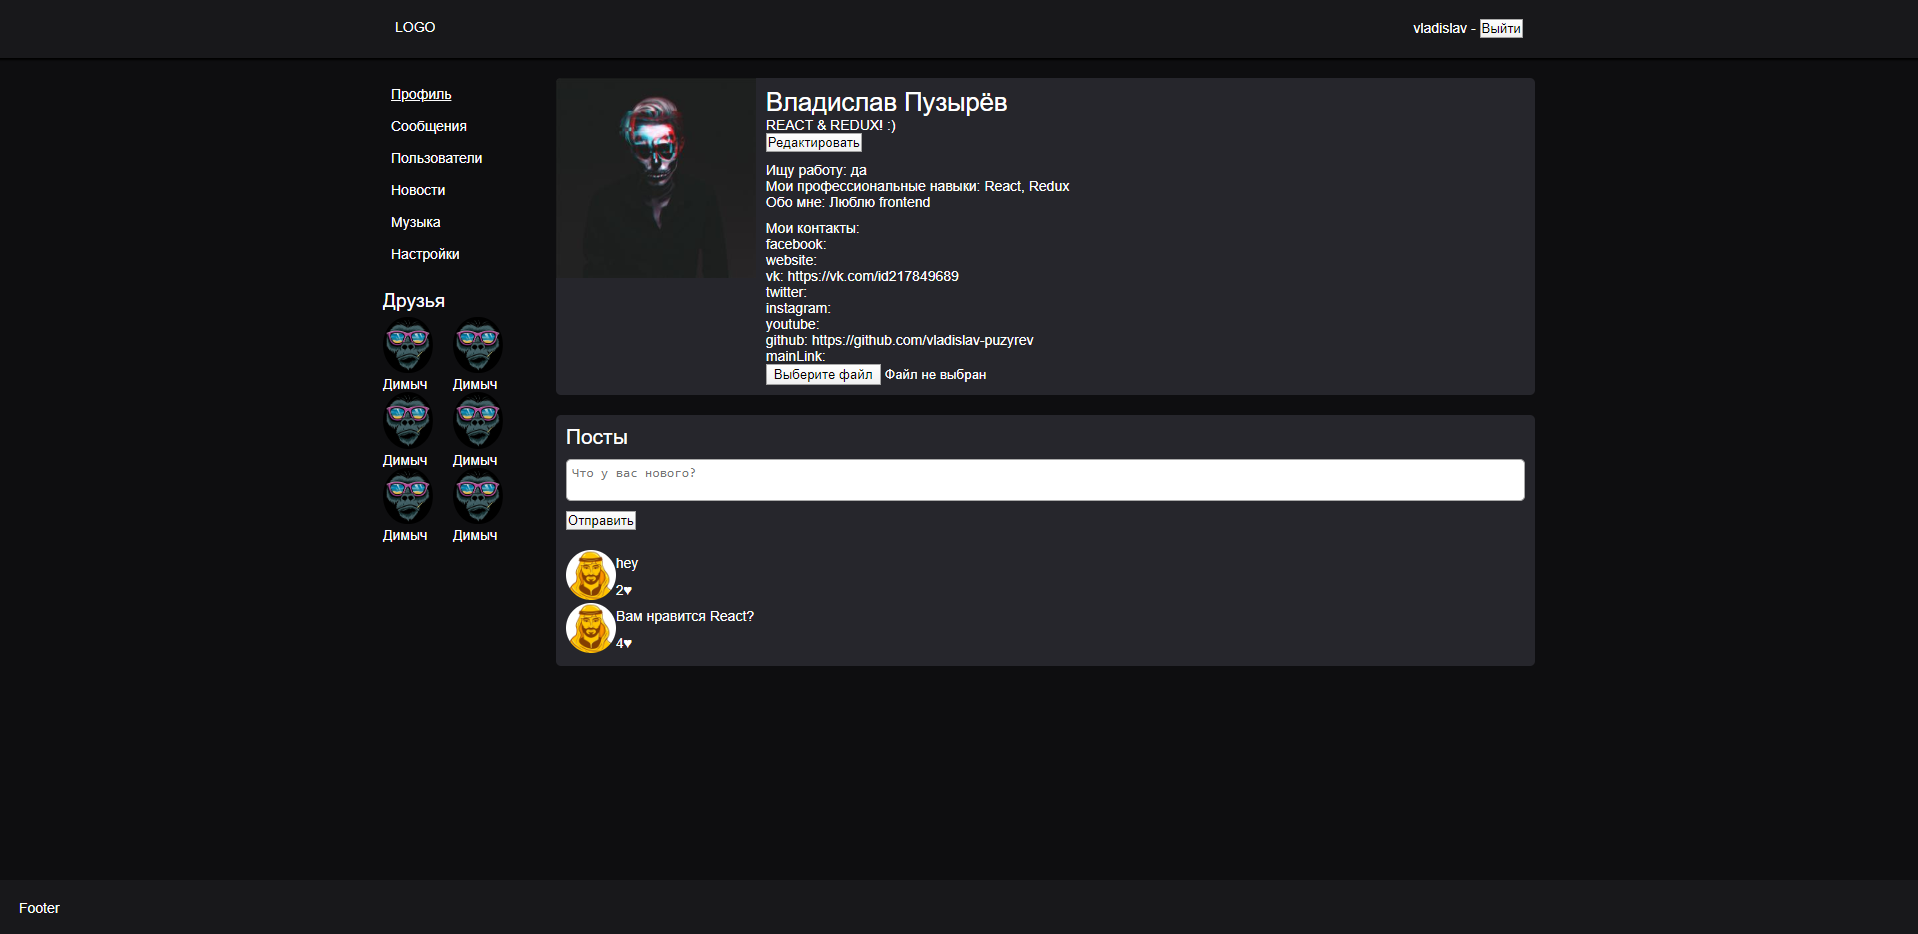
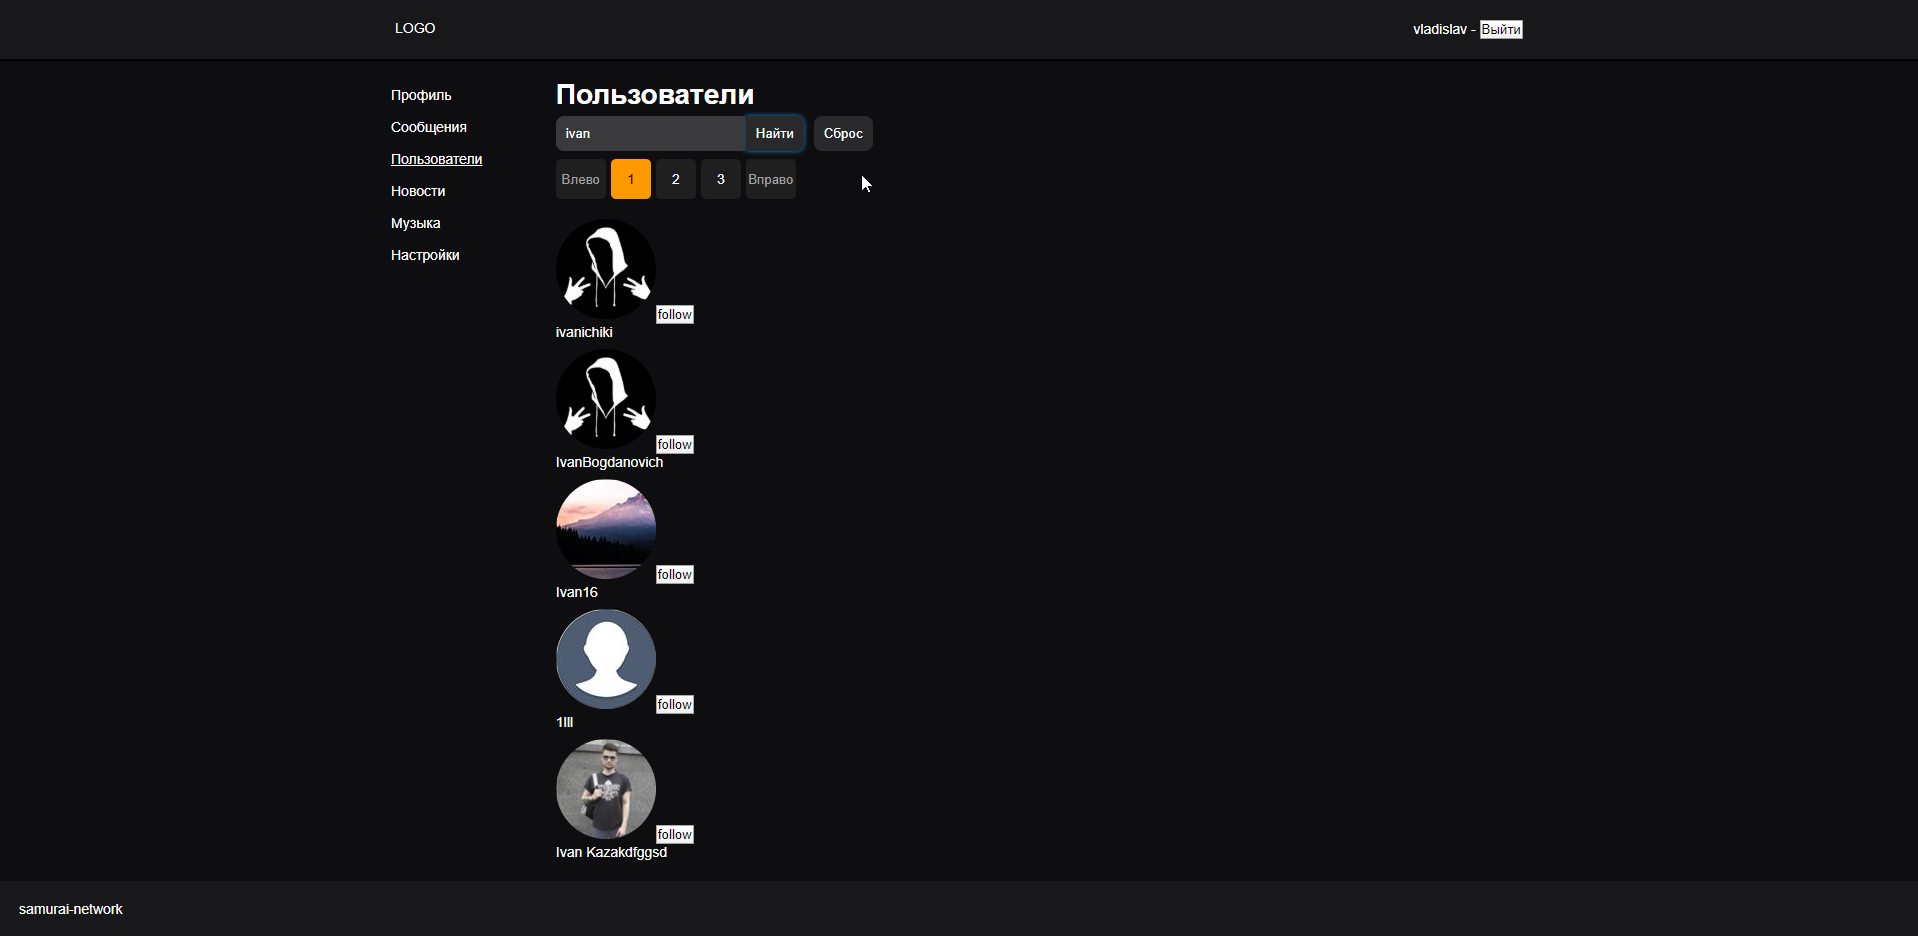
add user searching

diff --git a/src/components/Main/Users/UsersContainer.tsx b/src/components/Main/Users/UsersContainer.tsx
@@ -5,7 +5,7 @@ import {
   setCurrentPage,
   setIsFetching,
   follow,
-  unfollow,
+  unfollow, setTerm,
 } from '../../../redux/users-reducer'
 import React, { useEffect } from 'react'
 import {
@@ -28,46 +28,60 @@ type MapStatePropTypes = {
   isFetching: boolean
   followingInProgress: Array<number>
   portionSize: number
+  term: string
 }
 
 type MapDispatchPropTypes = {
   setCurrentPage: (page: number) => void
   setIsFetching: (isFetching: boolean) => void
-  getRequestUsers: (pageSize: number, currentPage: number) => void
+  getRequestUsers: (pageSize: number, currentPage: number, term: string) => void
   follow: (id: number) => void
   unfollow: (id: number) => void
+  setTerm: (term: string) => void
 }
 
 type PropTypes = MapStatePropTypes & MapDispatchPropTypes
 
-const UsersContainer = React.memo<PropTypes>(
-  (props) => {
-    useEffect(() => {
-      if (!props.totalUsersCount && !props.isFetching) {
-        props.getRequestUsers(props.pageSize, props.currentPage)
-      }
-    })
+const UsersContainer: React.FC<PropTypes> = ({
+  pageSize,
+  currentPage,
+  totalUsersCount,
+  isFetching,
+  users,
+  followingInProgress,
+  portionSize,
+  getRequestUsers,
+  setCurrentPage,
+  follow,
+  unfollow,
+  setTerm,
+  term,
+}) => {
 
-    const onPageChanged = (currentPage: number) => {
-      props.getRequestUsers(props.pageSize, currentPage)
-      props.setCurrentPage(currentPage)
-    }
+  useEffect(() => {
+    getRequestUsers(pageSize, currentPage, term)
+  }, [getRequestUsers, pageSize, currentPage, term])
 
-    return <Users
-      onPageChanged={onPageChanged}
-      currentPage={props.currentPage}
-      totalUsersCount={props.totalUsersCount}
-      setCurrentPage={props.setCurrentPage}
-      isFetching={props.isFetching}
-      users={props.users}
-      follow={props.follow}
-      unfollow={props.unfollow}
-      followingInProgress={props.followingInProgress}
-      pageSize={props.pageSize}
-      portionSize={props.portionSize}
-    />
+  const onPageChanged = (currentPage: number) => {
+    getRequestUsers(pageSize, currentPage, term)
+    setCurrentPage(currentPage)
   }
-)
+
+  return <Users
+    onPageChanged={onPageChanged}
+    currentPage={currentPage}
+    totalUsersCount={totalUsersCount}
+    setCurrentPage={setCurrentPage}
+    isFetching={isFetching}
+    users={users}
+    follow={follow}
+    unfollow={unfollow}
+    followingInProgress={followingInProgress}
+    pageSize={pageSize}
+    portionSize={portionSize}
+    setTerm={setTerm}
+  />
+}
 
 function mapStateToProps (state: AppStateType): MapStatePropTypes {
   return {
@@ -77,7 +91,8 @@ function mapStateToProps (state: AppStateType): MapStatePropTypes {
     currentPage: getCurrentPage(state),
     isFetching: getIsFetching(state),
     followingInProgress: getFollowingInProgress(state),
-    portionSize: state.usersPage.portionSize
+    portionSize: state.usersPage.portionSize,
+    term: state.usersPage.term,
   }
 }
 
@@ -88,5 +103,6 @@ export default compose(
     getRequestUsers,
     follow,
     unfollow,
+    setTerm,
   }),
 )(UsersContainer)

diff --git a/src/redux/users-reducer.ts b/src/redux/users-reducer.ts
@@ -11,6 +11,7 @@ const SET_CURRENT_PAGE = 'samurai-network/users/SET_CURRENT_PAGE'
 const SET_TOTAL_USERS_COUNT = 'samurai-network/users/SET_TOTAL_USERS_COUNT'
 const TOGGLE_IS_FETCHING = 'samurai-network/users/TOGGLE_IS_FETCHING'
 const TOGGLE_IS_FOLLOWING_PROGRESS = 'samurai-network/users/TOGGLE_IS_FOLLOWING_PROGRESS'
+const SET_TERM = 'samurai-network/users/SET_TERM'
 
 const initialState = {
   users: [] as Array<UserType>,
@@ -19,7 +20,8 @@ const initialState = {
   currentPage: 1,
   isFetching: false,
   followingInProgress: [] as Array<number>, // array of users ids
-  portionSize: 10
+  portionSize: 10,
+  term: '',
 }
 
 export type InitialStateType = typeof initialState
@@ -30,7 +32,8 @@ type ActionTypes =
   SetCurrentPageActionType |
   SetTotalUsersActionType |
   SetIsFetchingActionType |
-  ToggleFollowingProgressActionType
+  ToggleFollowingProgressActionType |
+  setTermActionType
 
 function usersReducer (state = initialState, action: ActionTypes): InitialStateType {
   switch (action.type) {
@@ -86,6 +89,12 @@ function usersReducer (state = initialState, action: ActionTypes): InitialStateT
         followingInProgress: action.isFetching ?
           [...state.followingInProgress, action.userId] :
           state.followingInProgress.filter(id => id !== action.userId),
+      }
+
+    case SET_TERM:
+      return {
+        ...state,
+        term: action.term,
       }
 
     default:
@@ -150,15 +159,24 @@ export const toggleFollowingProgress = (isFetching: boolean, userId: number): To
   userId,
 })
 
+type setTermActionType = {
+  type: typeof SET_TERM
+  term: string
+}
+export const setTerm = (term: string): setTermActionType => ({
+  type: SET_TERM,
+  term,
+})
+
 // Thunk Creators
 type GetStateType = () => AppStateType
 type DispatchType = Dispatch<ActionTypes>
 type ThunkType = ThunkAction<Promise<void>, AppStateType, unknown, ActionTypes>
 
-export const getRequestUsers = (pageSize: number, currentPage: number): ThunkType => {
+export const getRequestUsers = (pageSize: number, currentPage: number, term = ''): ThunkType => {
   return async (dispatch, getState) => {
     dispatch(setIsFetching(true))
-    const response = await usersAPI.getUsers(pageSize, currentPage)
+    const response = await usersAPI.getUsers(pageSize, currentPage, term)
     dispatch(setUsers(response.items))
     dispatch(setTotalUsers(response.totalCount))
     dispatch(setIsFetching(false))

diff --git a/src/components/Main/Users/Search/Search.tsx b/src/components/Main/Users/Search/Search.tsx
@@ -1,0 +1,38 @@
+import React, { useState, ChangeEvent } from 'react'
+import styles from './Search.module.css'
+
+type PropTypes = {
+  setTerm: (term: string) => void
+  setCurrentPage: (page: number) => void
+}
+
+const Search: React.FC<PropTypes> = ({ setTerm, setCurrentPage }) => {
+  const [inputText, setInputText] = useState('')
+
+  const onTextChange = (event: ChangeEvent<HTMLInputElement>) => {
+    setInputText(event.target.value)
+  }
+
+  const onButtonClick = () => {
+    setCurrentPage(1)
+    setTerm(inputText)
+  }
+
+  const onReset = () => {
+    if (inputText) {
+      setCurrentPage(1)
+      setTerm('')
+      setInputText('')
+    }
+  }
+
+  return (
+    <div className={styles.div}>
+      <input placeholder="Поиск" type="text" onChange={onTextChange} className={styles.input} value={inputText}/>
+      <button onClick={onButtonClick} className={styles.button}>Найти</button>
+      <button onClick={onReset} className={styles.reset}>Сброс</button>
+    </div>
+  )
+}
+
+export default Search

diff --git a/src/components/Main/Users/UsersList/UsersList.tsx b/src/components/Main/Users/UsersList/UsersList.tsx
@@ -13,19 +13,20 @@ type PropTypes = {
 }
 
 const UsersList: React.FC<PropTypes> = ({ users, followingInProgress, follow, unfollow, isFetching }) => {
+  const usersOrMessage = (users.length) ?
+    users.map((user) => (
+      <User key={user.id}
+            user={user}
+            followingInProgress={followingInProgress}
+            follow={follow}
+            unfollow={unfollow}
+      />
+    )) : 'Ничего не найдено'
+
   return (
     isFetching ? <Preloader/> :
       <ul className={styles.users}>
-        {
-          users.map((user) => (
-            <User key={user.id}
-                  user={user}
-                  followingInProgress={followingInProgress}
-                  follow={follow}
-                  unfollow={unfollow}
-            />
-          ))
-        }
+        {usersOrMessage}
       </ul>
   )
 }

diff --git a/src/components/Main/Users/Search/Search.module.css b/src/components/Main/Users/Search/Search.module.css
@@ -1,0 +1,49 @@
+.div {
+  margin-top: 5px;
+  margin-bottom: 8px;
+}
+
+.input {
+  background-color: #3a3a3d;
+  border-bottom-left-radius: 8px;
+  border-top-left-radius: 8px;
+  padding: 10px;
+  border: none;
+  color: white;
+  outline: none;
+  position: relative;
+  z-index: 1;
+}
+
+.input:focus {
+  box-shadow: 0 0 0 2px #106fc1;
+}
+
+.button {
+  color: white;
+  background-color: #29292c;
+  border: none;
+  padding: 10px;
+  margin-left: 1px;
+  border-bottom-right-radius: 8px;
+  border-top-right-radius: 8px;
+  outline: none;
+}
+
+.button:focus {
+  box-shadow: 0 0 5px #108de2;
+}
+
+.reset {
+  color: white;
+  background-color: #29292c;
+  border: none;
+  padding: 10px;
+  outline: none;
+  border-radius: 8px;
+  margin-left: 10px;
+}
+
+.reset:focus {
+  box-shadow: 0 0 5px #108de2;
+}

diff --git a/src/components/Main/Users/Users.tsx b/src/components/Main/Users/Users.tsx
@@ -2,6 +2,7 @@ import React from 'react'
 import { UserType } from '../../../types/AppTypes'
 import Paginator from './Paginator/Paginator'
 import UsersList from './UsersList/UsersList'
+import Search from './Search/Search'
 
 type PropTypes = {
   currentPage: number
@@ -15,12 +16,17 @@ type PropTypes = {
   followingInProgress: Array<number>
   pageSize: number
   portionSize: number
+  setTerm: (term: string) => void
 }
 
 const Users: React.FC<PropTypes> = (props) => {
   return (
     <>
       <h1>Пользователи</h1>
+      <Search
+        setTerm={props.setTerm}
+        setCurrentPage={props.setCurrentPage}
+      />
       <Paginator
         totalUsersCount={props.totalUsersCount}
         currentPage={props.currentPage}

diff --git a/src/components/Main/Users/Paginator/Paginator.tsx b/src/components/Main/Users/Paginator/Paginator.tsx
@@ -25,7 +25,7 @@ const Paginator: React.FC<PropTypes> = ({ currentPage, totalUsersCount, pageSize
   const rightPortionPageNumber = portionNumber * portionSize
 
   const changePage = (event: any) => {
-    const pageNumber = event.target.dataset.number
+    const pageNumber = +event.target.dataset.number
 
     if (pageNumber) {
       onPageChanged(pageNumber)

diff --git a/src/components/Main/Users/Paginator/Paginator.module.css b/src/components/Main/Users/Paginator/Paginator.module.css
@@ -2,8 +2,10 @@
   display: flex;
   margin-bottom: 20px;
   margin-top: 5px;
-  width: 600px;
-  justify-content: space-between;
+}
+
+.paginationItems > *:not(:last-child) {
+  margin-right: 5px;
 }
 
 .button {

diff --git a/src/components/Main/Users/UsersList/User/User.module.css b/src/components/Main/Users/UsersList/User/User.module.css
@@ -3,5 +3,5 @@
 }
 
 .user:not(:last-child) {
-  margin-bottom: 10px
+  margin-bottom: 9px
 }
